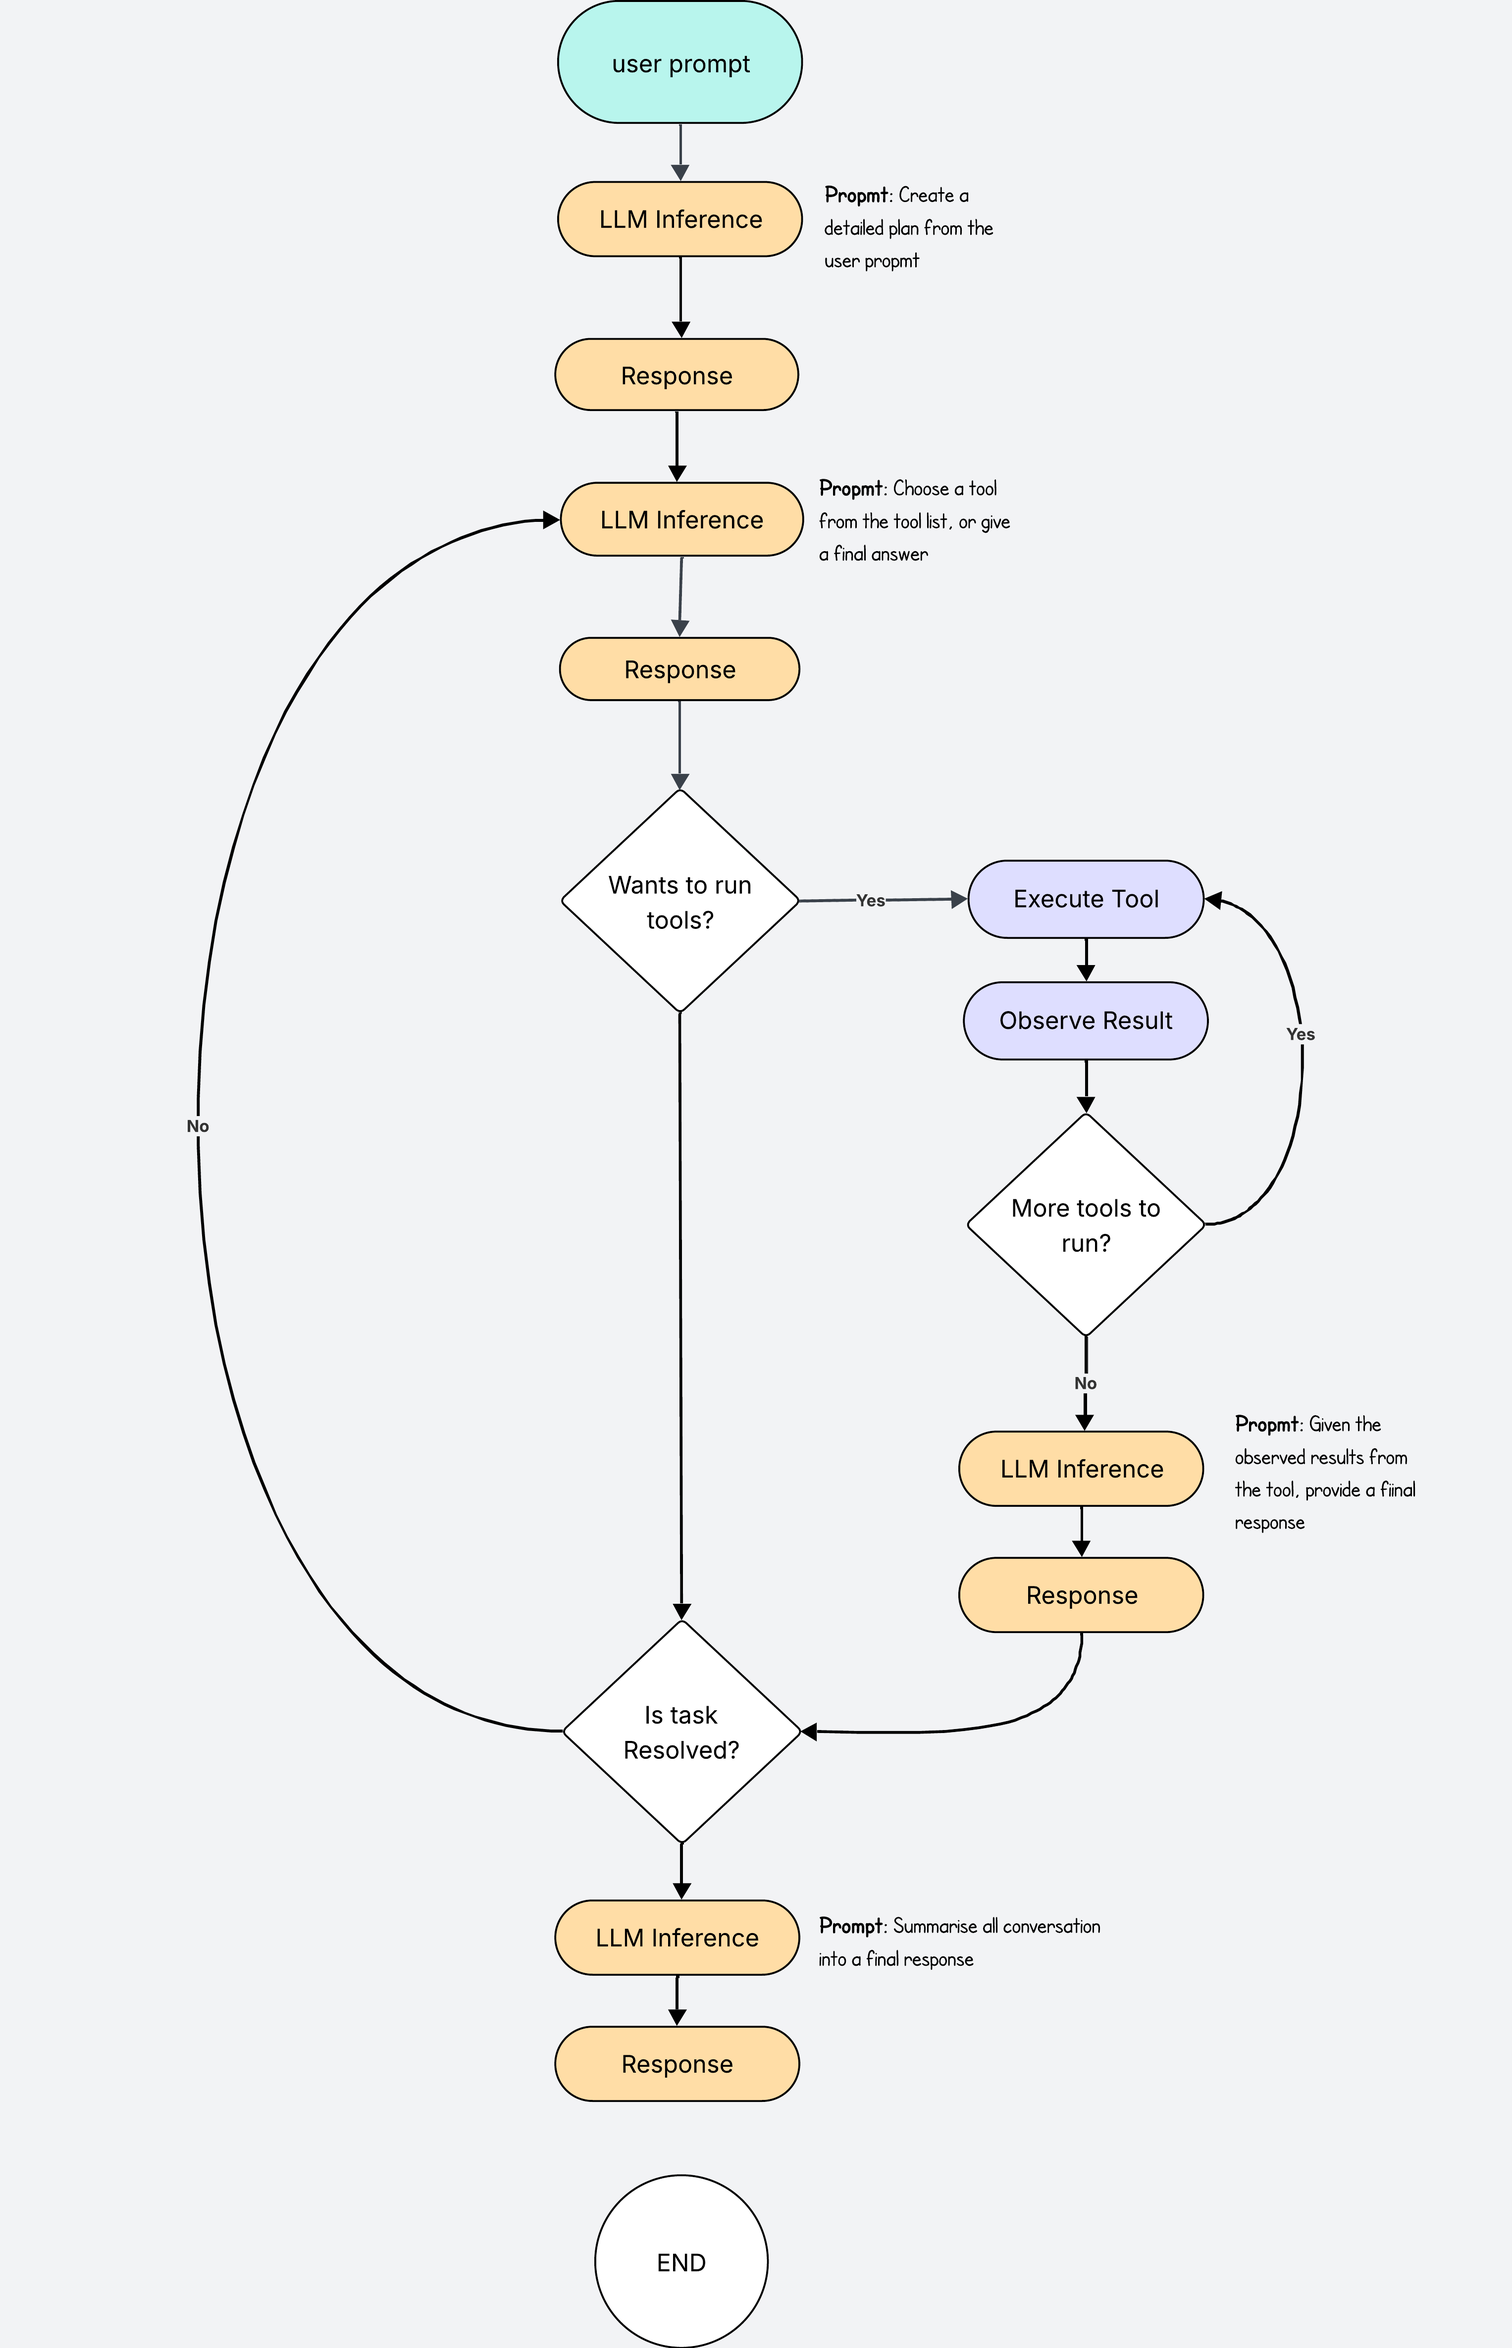
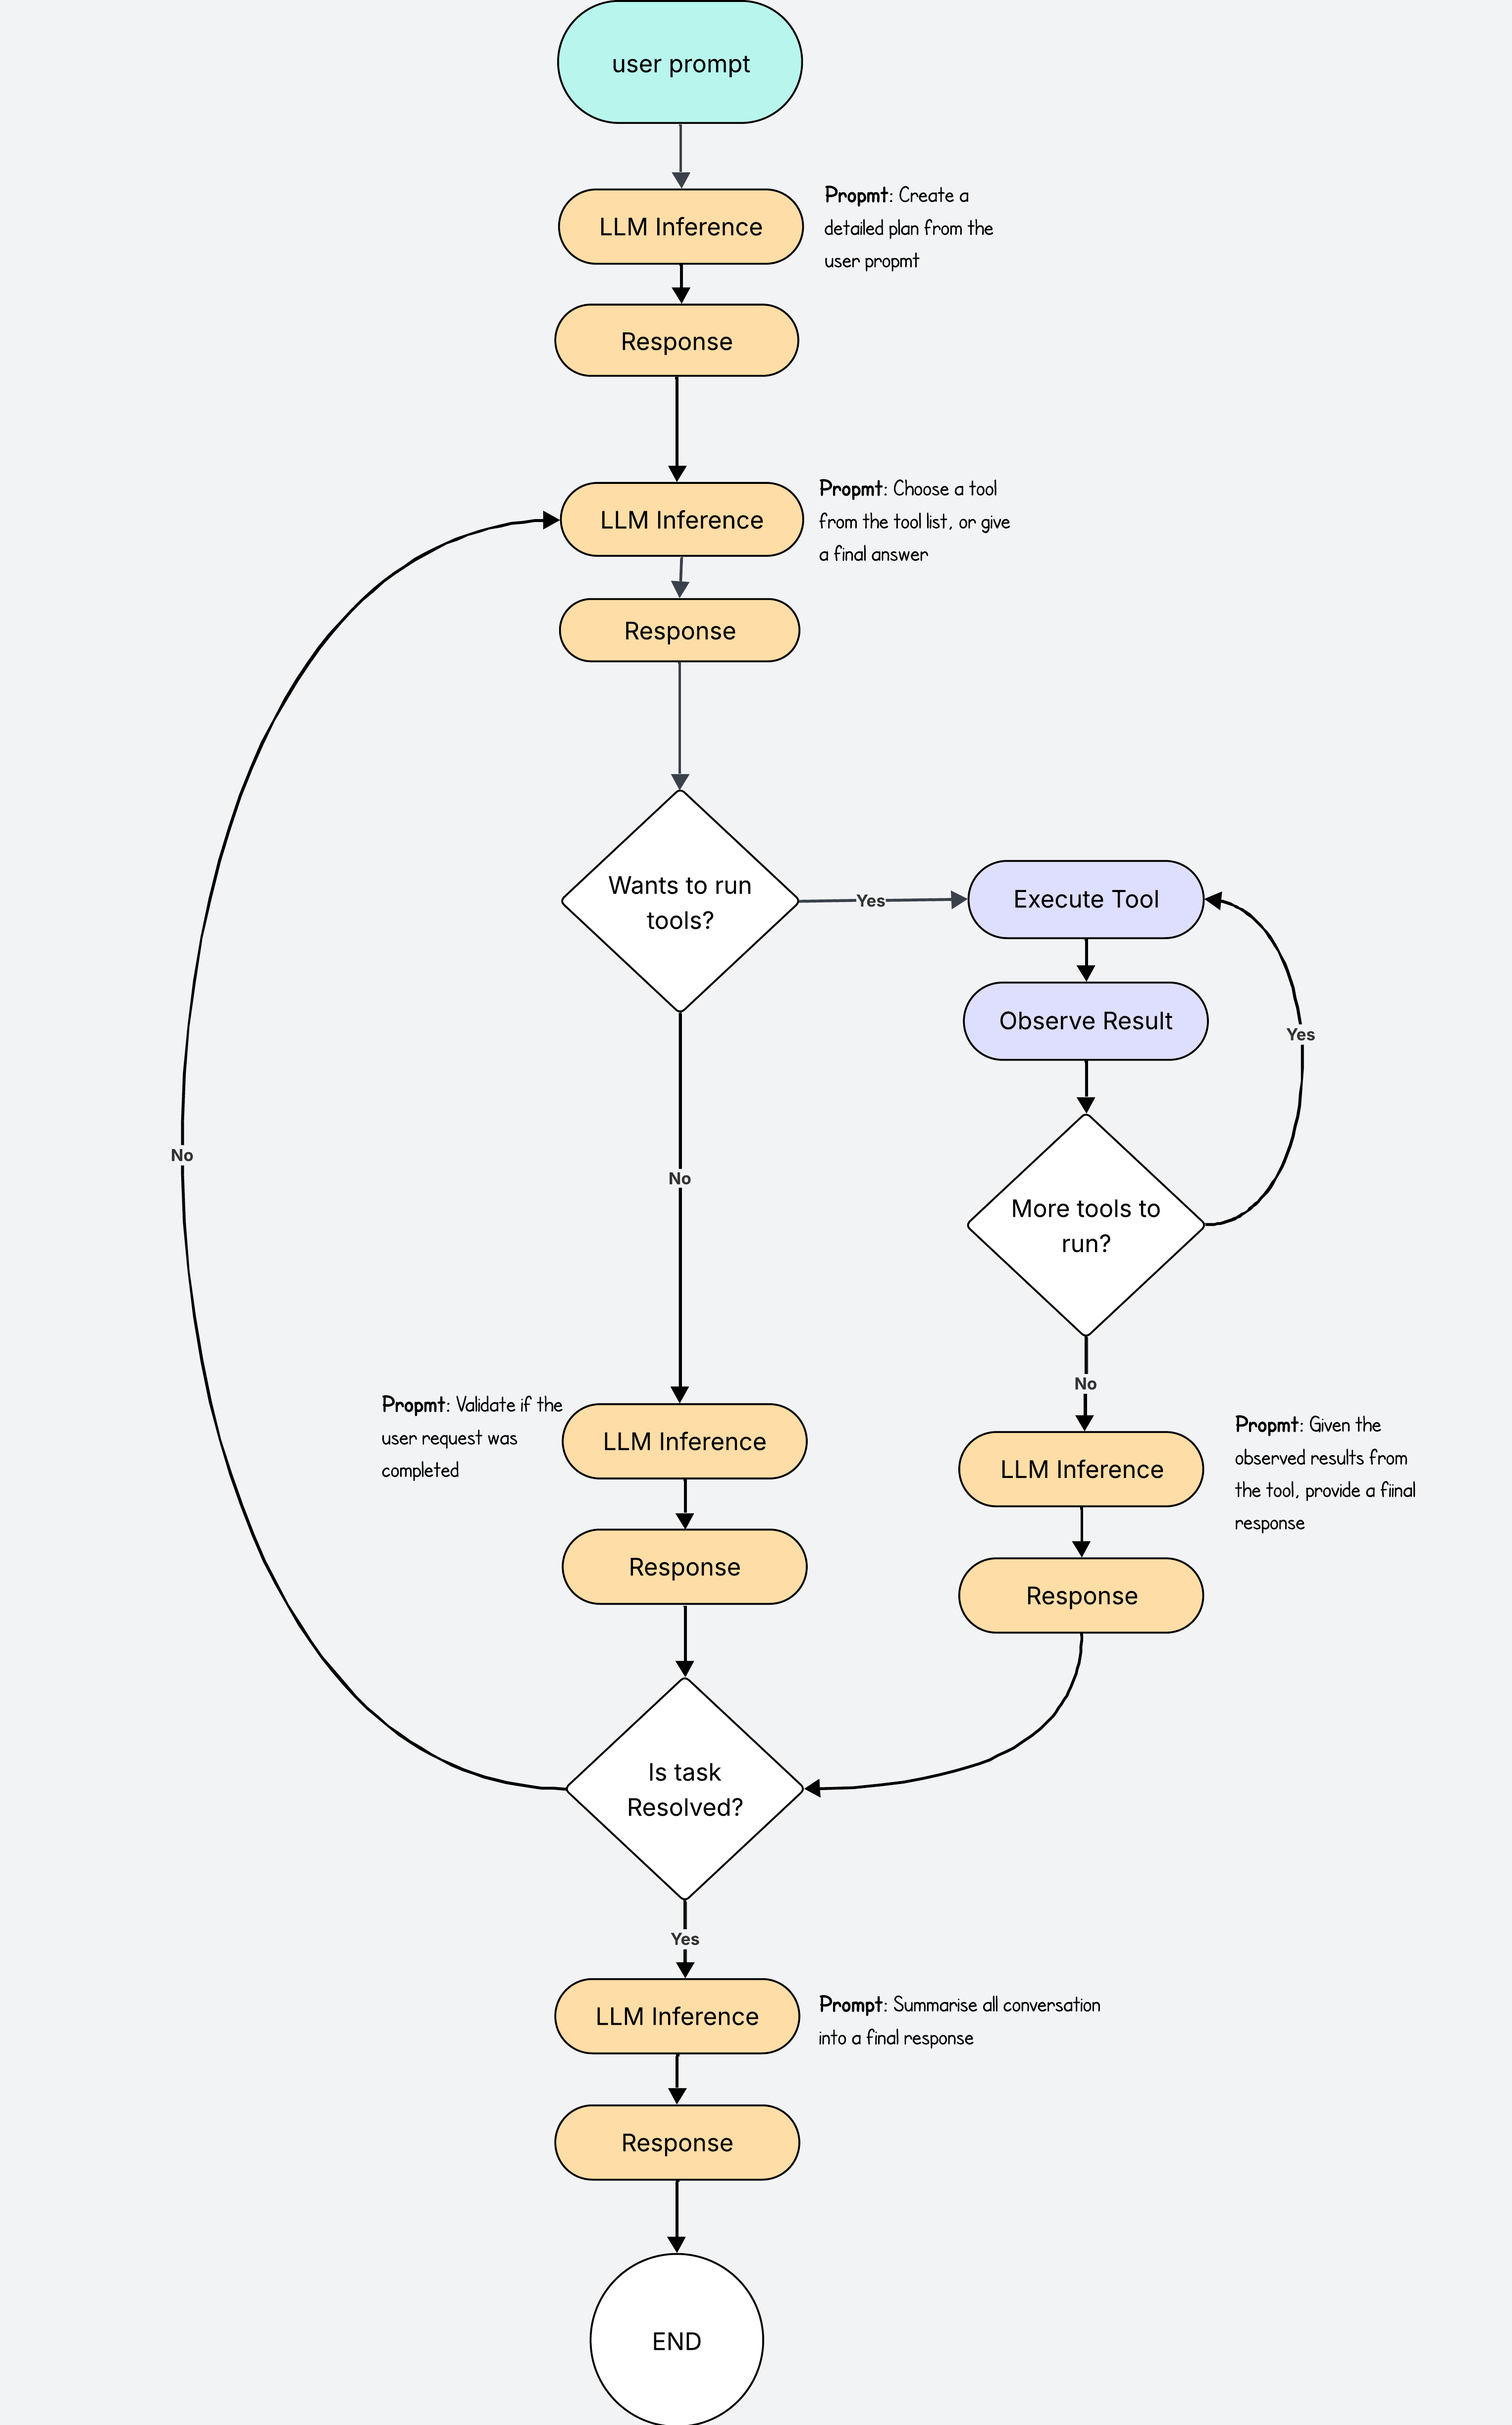
Final draft

diff --git a/content/posts/026_agents_then_and_now/index.md b/content/posts/026_agents_then_and_now/index.md
@@ -53,10 +53,12 @@ def read_file(path: str) -> str:
     with open(path, "r") as f:
         return f.read()
 
-def write_file(path: str, content: str) -> None:
+def write_file(path: str, content: str) -> list:
     """Write some content to a file"""
     with open(path, "w") as f:
         f.write(content)
+    return ... # return list of edits
+
 
 # Register tools in a dictionary so the agent can call them
 TOOLS = {
@@ -66,7 +68,7 @@ TOOLS = {
 user_prompt = "Write unit tests for search.py"
 instructions = f"""
     You are a software engineering agent.
-    When you need a tool, choose one of the provided tools.
+    When you need a tool, choose one or more of the provided tools.
     When you can answer, reply in plain text.
     Be decisive, keep steps minimal, and ground answers in observed tool results.
 
@@ -79,8 +81,12 @@ instructions = f"""
 
 response = LLM.chat(instructions)
 
-if wants_to_run_tools(response)
-    response = ... # run tool
+if wants_to_run_tools(response):
+    observations = []
+    for tool in response["tools"]:
+        observation = ... # run tool
+        observations.append(observation)
+    response = llm.chat(f" Provide a final response given the tool observations: {observations}, user prompt {user_prompt}")
 
 print("Final answer from LLM:", response)
 ```
@@ -101,7 +107,35 @@ To do the validation, we take the final answer candidate, and make a new LLM cal
 
 Now, before sending a final response to the user, we check if the task has been completed. If not, we start the process all over again.
 
-With the new loop, we need to make sure we log and save all the outputs from every state into memory, so that the agent can re-use the outputs of previous actions in follow up iterations.
+With the new loop, we need to make sure we log and save all the outputs from every step into a history so that it can be used by the agent in future iterations.
+
+We'd update our code to do a validation loop:
+
+
+```python
+# ... same as before
+
+response = LLM.chat(instructions)
+
+while True:
+    observations = []
+    if wants_to_run_tools(response):
+        for tool in response["tools"]:
+            observation = ... # run tool and observe the results
+            observations.append(observation)
+
+        response = llm.chat(instructions + observations)
+    
+    # Run validation step
+    is_task_complete = llm.chat(f"Is the task complete? User prompt: {user_prompt}, tool observations: {observations}")
+
+    if is_task_complete == True:
+        break # break the loop and end
+
+print("Final answer from LLM:", response)
+```
+
+
 
 And with this we have a fully functional LLM agent that can independently do tasks for us. For a coding agent we may want to give access to more tools other than read and write, such as file search, listing directories, terminal command exectution, and even internet search so it can search documentation. The world is your oister.
 
@@ -129,8 +163,10 @@ We have seen how to go from LLM to agent by adding a few simple steps.
 
 It is quite simple to build your own agent, and you can use them for all sorts of things, although I yet have to find a decent use case of a custom agent that can improve my efficiency at work. But still, they are fun to play with.
 
+Keep in mind that I came up with this implementation from playing around with it, but there will definitely be more efficient loops out there. I'd recommend you build your own and you see what works and what does not work.
+
 You don't have to build agents from scratch like we have done in this post. You can use libraries like [pydantic ai](https://martinfowler.com/articles/build-own-coding-agent.html) that abstract a lot of this logic, so you can mainly focus on the tooling part.
 
-I hope you found this educational, and hopefully I've encouraged you to build your own LLM agent.
+I hope you found this educational, and hopefully it has been an enjoyable read.
 
 See you next time!
